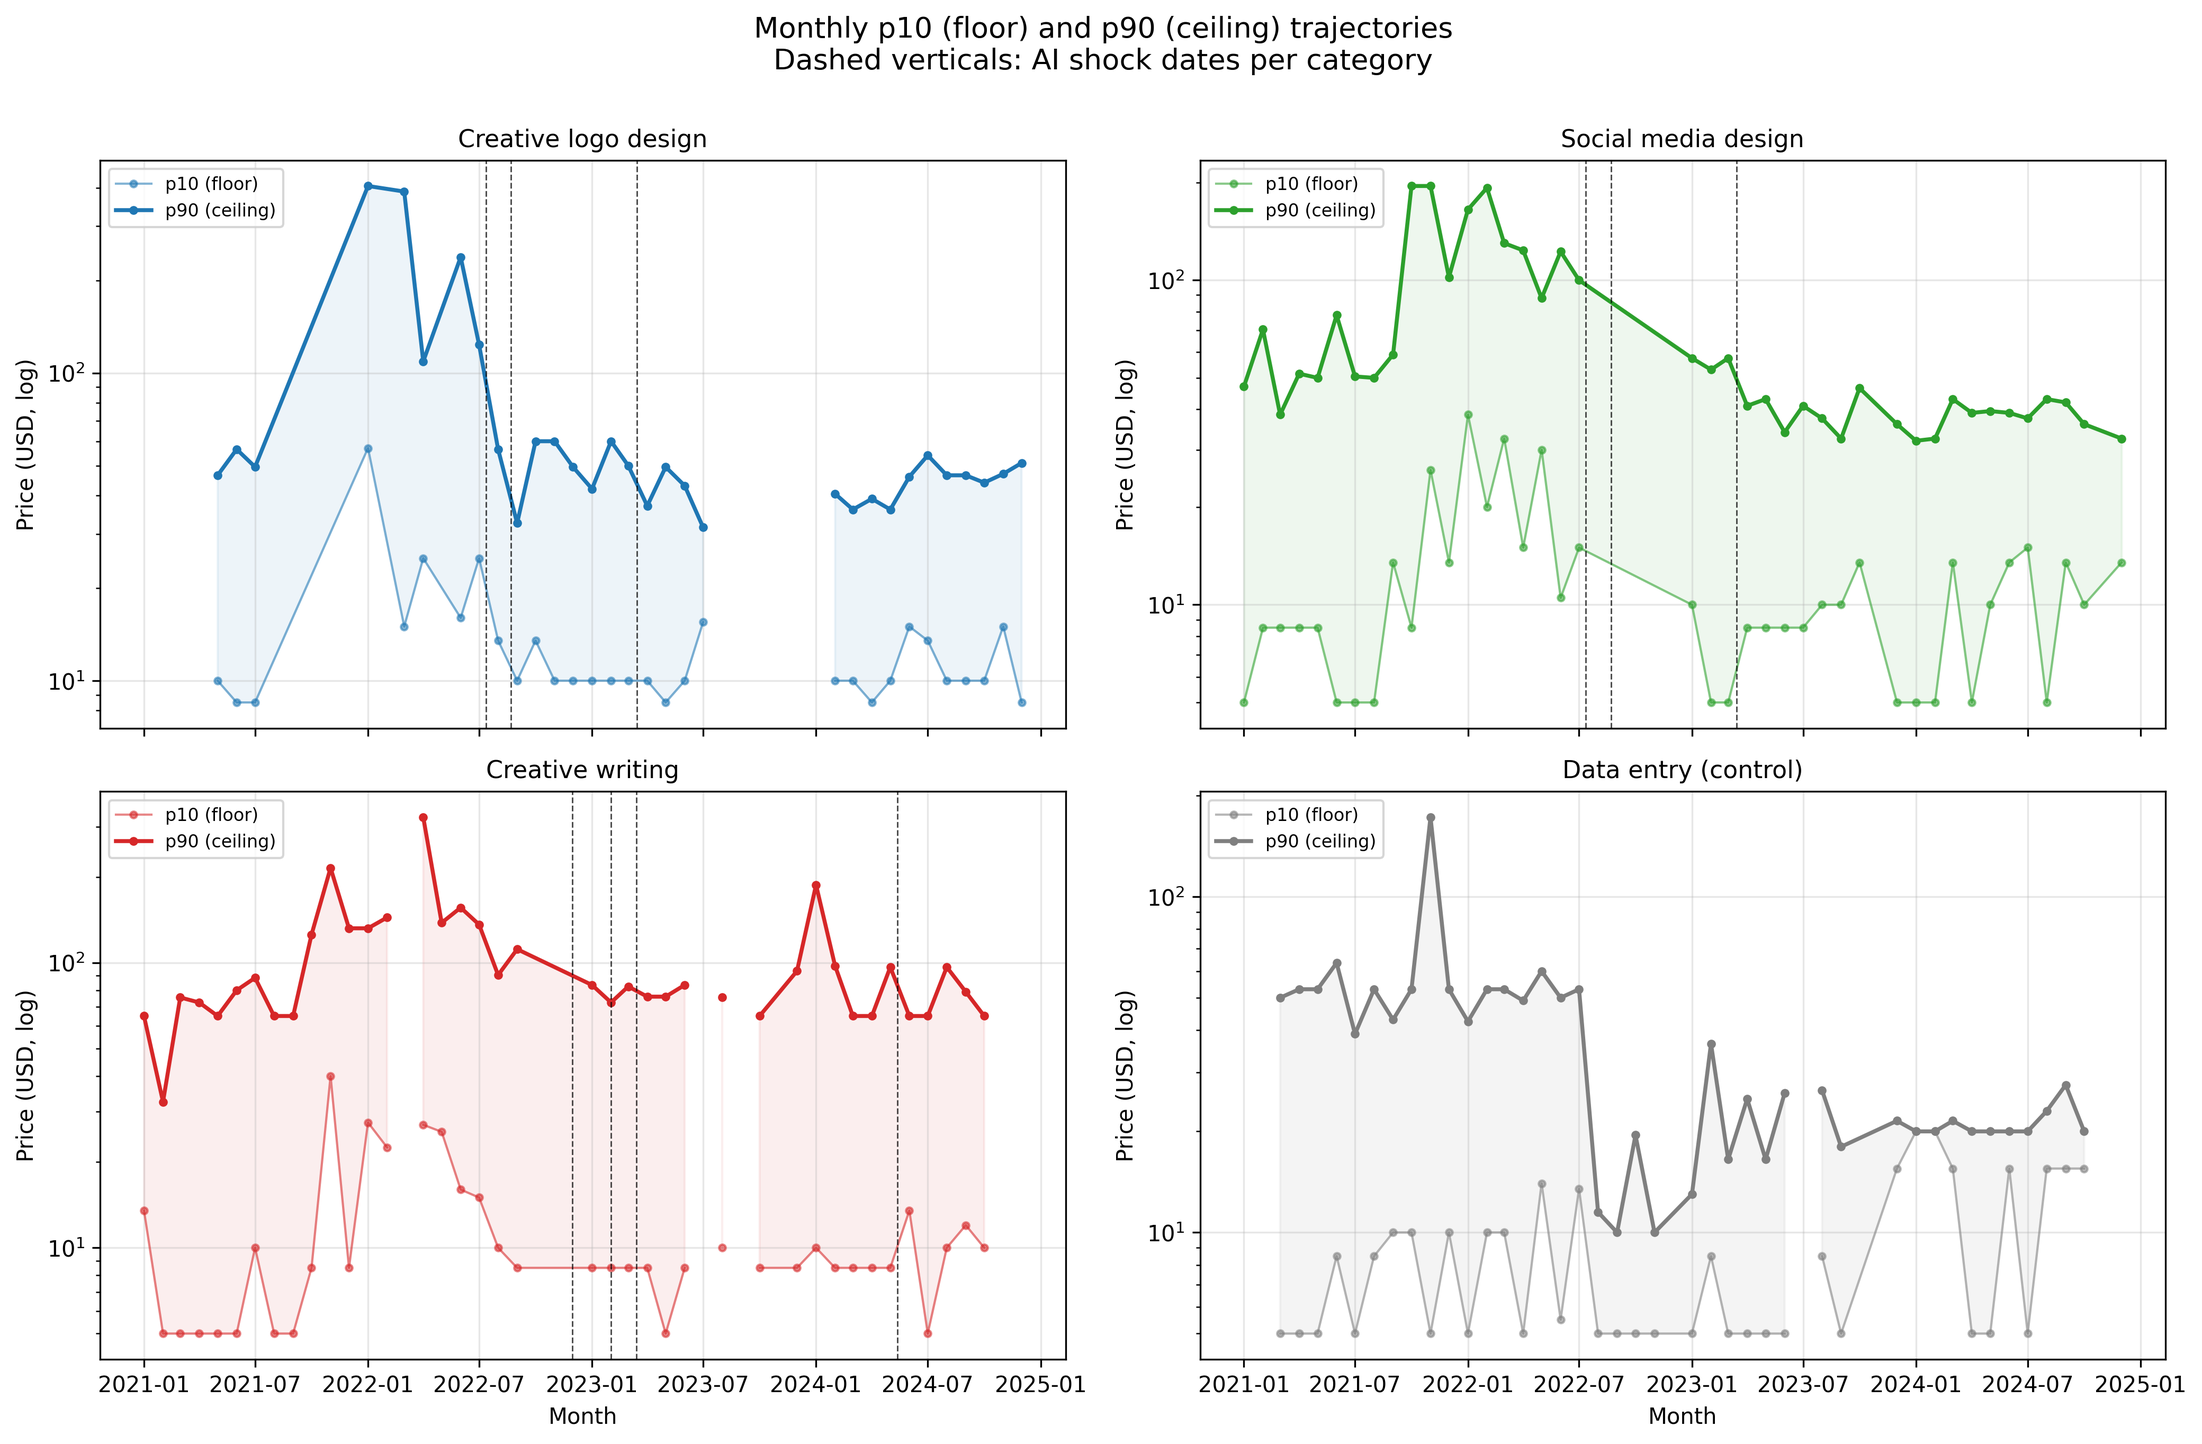
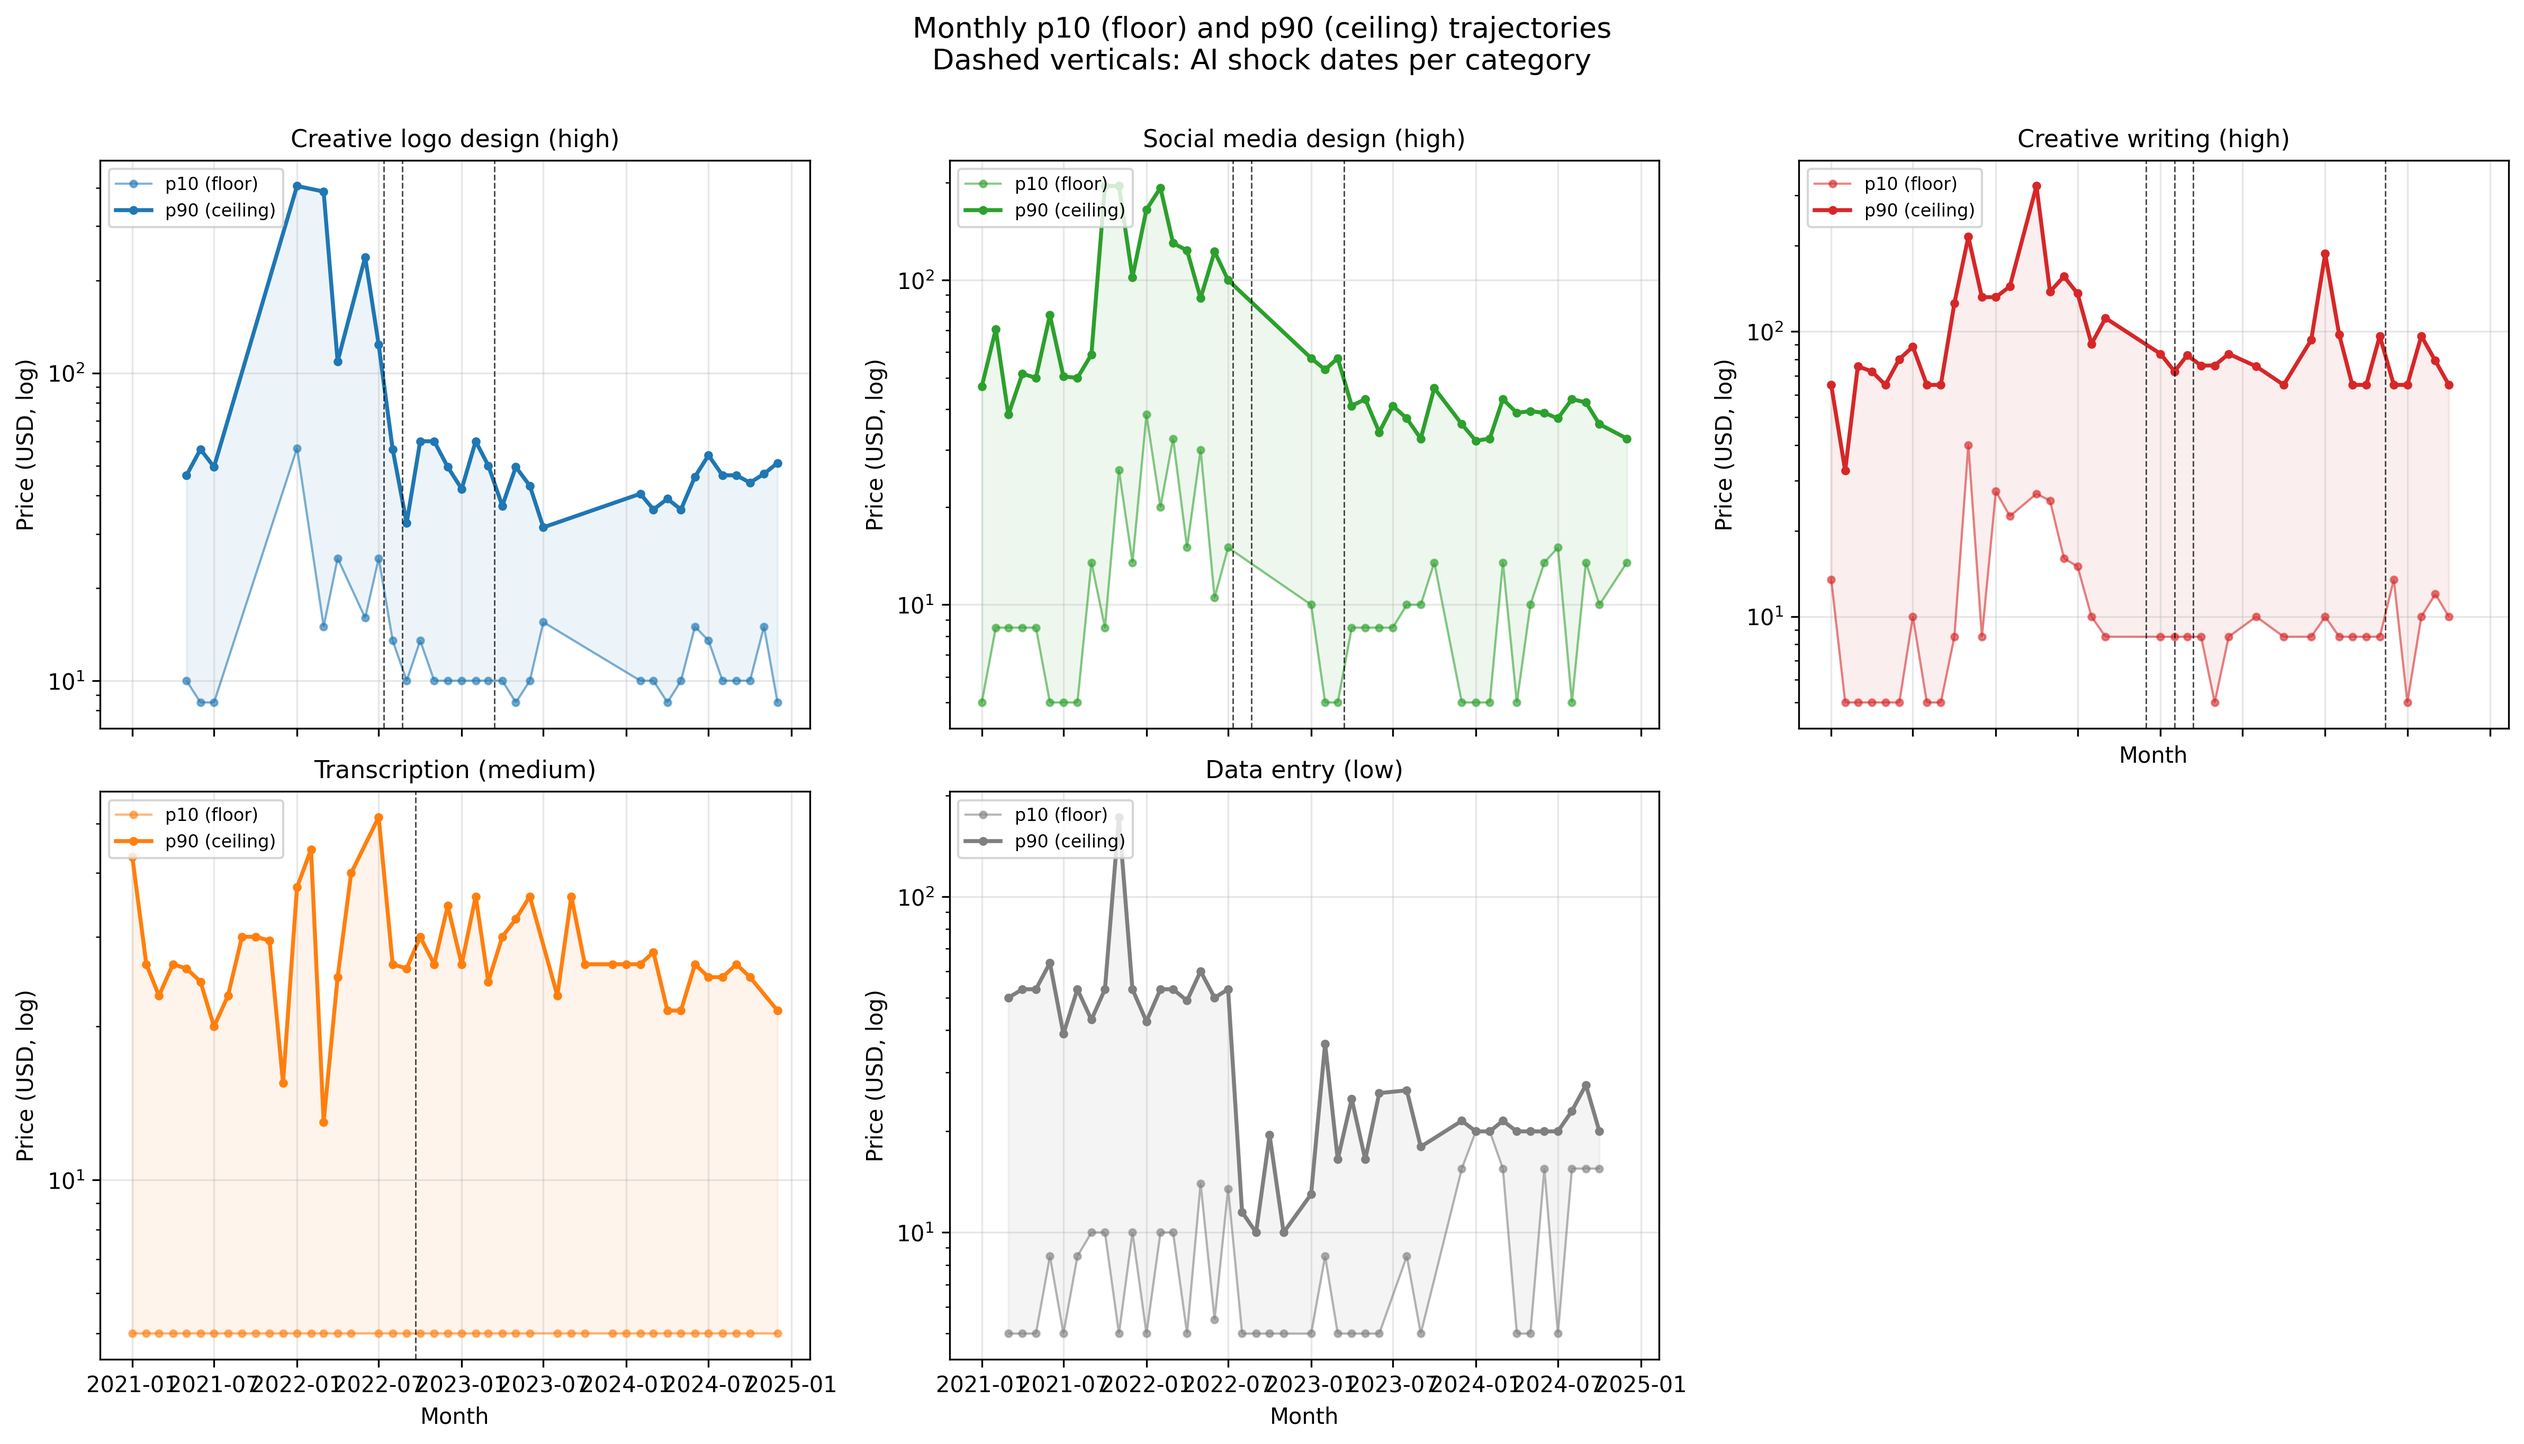
analysis: transcription GMM added, graded exposure table complete
Five-category GMM (k=2) floor/ceiling table ordered by ceiling drop:
logo (-46), social (-40), writing (-23), data entry (-18), transcription (+2).

Transcription (medium exposure) does not fall between treatment and low
control as predicted; its ceiling rose slightly. Pre-shock ceiling was
already compressed ($21 vs $36-$107 elsewhere) — limited premium tier to
collapse. Three high-exposure categories cluster as expected.

diff --git a/scripts/gmm_analysis.py b/scripts/gmm_analysis.py
@@ -25,28 +25,37 @@ FIG_DIR = Path("data/output/figures")
 GMM_FITS_PNG = FIG_DIR / "gmm_fits.png"
 TRAJ_PNG = FIG_DIR / "floor_ceiling_trajectories.png"
 SUMMARY_CSV = "data/output/gmm_floor_ceiling.csv"
+GRADED_TABLE_CSV = "data/output/gmm_graded_exposure_table.csv"
 
-CONTROL_CATEGORY = "data/data-entry"
+LOW_CONTROL = "data/data-entry"
+MEDIUM_CONTROL = "transcription-control-medium"
+CONTROL_CATEGORY = LOW_CONTROL  # used for differential calculations
 
+# Whisper open-source release (2022-09-21) is the primary AI shock for
+# transcription as a medium-exposure category; data-entry has no plausible
+# AI shock during the study window and uses the pooled image-gen reference.
 CATEGORY_SHOCKS = {
     "graphics-design/creative-logo-design":  ["2022-07-12", "2022-08-22", "2023-03-15"],
     "graphics-design/social-media-design":   ["2022-07-12", "2022-08-22", "2023-03-15"],
     "content-writing/creative-writing":      ["2022-11-30", "2023-02-01", "2023-03-14", "2024-05-13"],
-    CONTROL_CATEGORY:                        [],
+    MEDIUM_CONTROL:                          ["2022-09-21"],
+    LOW_CONTROL:                             [],
 }
 
 CATEGORY_COLORS = {
     "graphics-design/creative-logo-design":  "#1f77b4",
     "graphics-design/social-media-design":   "#2ca02c",
     "content-writing/creative-writing":      "#d62728",
-    CONTROL_CATEGORY:                        "#7f7f7f",
+    MEDIUM_CONTROL:                          "#ff7f0e",
+    LOW_CONTROL:                             "#7f7f7f",
 }
 
 CATEGORY_DISPLAY = {
-    "graphics-design/creative-logo-design":  "Creative logo design",
-    "graphics-design/social-media-design":   "Social media design",
-    "content-writing/creative-writing":      "Creative writing",
-    CONTROL_CATEGORY:                        "Data entry (control)",
+    "graphics-design/creative-logo-design":  "Creative logo design (high)",
+    "graphics-design/social-media-design":   "Social media design (high)",
+    "content-writing/creative-writing":      "Creative writing (high)",
+    MEDIUM_CONTROL:                          "Transcription (medium)",
+    LOW_CONTROL:                             "Data entry (low)",
 }
 
 CONTROL_REFERENCE_SHOCK = "2022-07-12"
@@ -86,11 +95,15 @@ def split_pre_post(df: pd.DataFrame, cat: str):
 
 
 def plot_gmm_fits(df: pd.DataFrame, out_path: Path) -> pd.DataFrame:
-    fig, axes = plt.subplots(2, 2, figsize=(13, 9))
+    cats = list(CATEGORY_SHOCKS.keys())
+    n_cat = len(cats)
+    ncols = 3
+    nrows = (n_cat + ncols - 1) // ncols
+    fig, axes = plt.subplots(nrows, ncols, figsize=(16, 4.5 * nrows))
     axes = axes.flatten()
     rows = []
 
-    for ax, cat in zip(axes, CATEGORY_SHOCKS.keys()):
+    for ax, cat in zip(axes, cats):
         pre, post, cut = split_pre_post(df, cat)
         color = CATEGORY_COLORS[cat]
 
@@ -142,6 +155,9 @@ def plot_gmm_fits(df: pd.DataFrame, out_path: Path) -> pd.DataFrame:
             "post_ceiling_weight": gmm_post["ceiling_weight"] if gmm_post else np.nan,
         })
 
+    for ax in axes[len(cats):]:
+        ax.set_visible(False)
+
     fig.suptitle("Pre- vs post-shock price densities and GMM (k=2) modes",
                  fontsize=13, y=1.005)
     fig.tight_layout()
@@ -171,17 +187,25 @@ def monthly_floor_ceiling(df: pd.DataFrame) -> pd.DataFrame:
 
 
 def plot_trajectories(traj: pd.DataFrame, events: dict, out_path: Path) -> None:
-    fig, axes = plt.subplots(2, 2, figsize=(14, 9), sharex=True)
+    cats = list(CATEGORY_SHOCKS.keys())
+    n_cat = len(cats)
+    ncols = 3
+    nrows = (n_cat + ncols - 1) // ncols
+    fig, axes = plt.subplots(nrows, ncols, figsize=(16, 4.5 * nrows), sharex=True)
     axes = axes.flatten()
 
-    for ax, cat in zip(axes, CATEGORY_SHOCKS.keys()):
+    for ax, cat in zip(axes, cats):
         sub = traj[traj["category"] == cat]
         color = CATEGORY_COLORS[cat]
-        ax.plot(sub["month"], sub["p10"], "-o", ms=3, color=color, alpha=0.55,
+        sub_p10 = sub.dropna(subset=["p10"])
+        sub_p90 = sub.dropna(subset=["p90"])
+        ax.plot(sub_p10["month"], sub_p10["p10"], "-o", ms=3, color=color, alpha=0.55,
                 linewidth=1.0, label="p10 (floor)")
-        ax.plot(sub["month"], sub["p90"], "-o", ms=3, color=color, alpha=1.0,
+        ax.plot(sub_p90["month"], sub_p90["p90"], "-o", ms=3, color=color, alpha=1.0,
                 linewidth=1.8, label="p90 (ceiling)")
-        ax.fill_between(sub["month"], sub["p10"], sub["p90"], color=color, alpha=0.08)
+        sub_both = sub.dropna(subset=["p10", "p90"])
+        ax.fill_between(sub_both["month"], sub_both["p10"], sub_both["p90"],
+                        color=color, alpha=0.08)
 
         for d_str in CATEGORY_SHOCKS[cat]:
             d = pd.to_datetime(d_str)
@@ -193,8 +217,10 @@ def plot_trajectories(traj: pd.DataFrame, events: dict, out_path: Path) -> None:
         ax.legend(fontsize=8, loc="upper left")
         ax.grid(True, alpha=0.3)
 
-    axes[-1].set_xlabel("Month")
-    axes[-2].set_xlabel("Month")
+    for ax in axes[len(cats):]:
+        ax.set_visible(False)
+    for ax in axes[max(0, len(cats) - ncols):len(cats)]:
+        ax.set_xlabel("Month")
     fig.suptitle("Monthly p10 (floor) and p90 (ceiling) trajectories\n"
                  "Dashed verticals: AI shock dates per category",
                  fontsize=13, y=1.005)
@@ -250,10 +276,14 @@ def main():
 
     print("\n" + "=" * 110)
     print("  GMM (k=2) floor/ceiling means: pre- vs post-shock per category")
+    print("  Ordered by ceiling drop magnitude (most negative first)")
     print("=" * 110)
     table = summary_table(gmm_summary)
+    table_ordered = table.sort_values("ceiling_Δ", ascending=True).reset_index(drop=True)
     with pd.option_context("display.float_format", lambda x: f"{x:.2f}"):
-        print(table.to_string(index=False))
+        print(table_ordered.to_string(index=False))
+    table_ordered.to_csv(GRADED_TABLE_CSV, index=False)
+    print(f"\nSaved {GRADED_TABLE_CSV}")
 
 
 if __name__ == "__main__":
